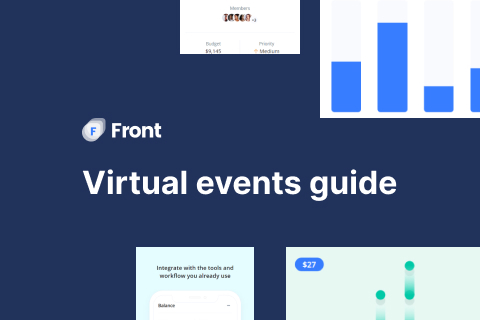
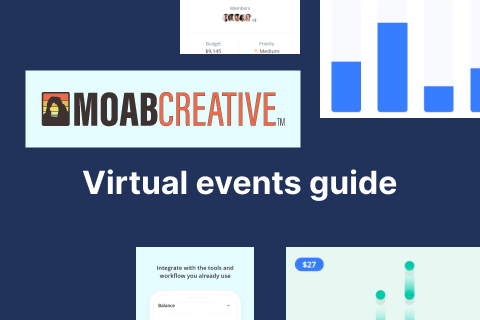
front page beta finished

Changed region(s): [[0.0312, 0.2188, 0.625, 0.4688]]

diff --git a/index.html b/index.html
@@ -63,7 +63,7 @@
                     <a href="#" class="nav-link" role="button" >Services</a>
                 </li>
                 <li class="nav-item">
-                    <a href="advertising.html" class="nav-link" role="button" >Advertising</a>
+                    <a href="#" class="nav-link" role="button" >Advertising</a>
                 </li>
                 <li class="nav-item">
                     <a href="#" class="nav-link" role="button" >FAQ</a>
@@ -570,7 +570,7 @@
               <div class="card-body">
                 <span class="card-subtitle text-body">Read the blog</span>
                 <h4 class="card-title text-inherit">Have a meaningful impact</h4>
-                <p class="card-text text-body">Opportunities to Front who have proven to be good at executing on them.</p>
+                <p class="card-text text-body">Opportunities for Moab Creative have proven we are good at executing on them.</p>
               </div>
             </a>
             <!-- End Card -->
@@ -584,7 +584,7 @@
               <div class="card-body">
                 <span class="card-subtitle text-body">Read the blog</span>
                 <h4 class="card-title text-inherit">Documentation</h4>
-                <p class="card-text text-body">Whether you're a startup or a global enterprise, learn how to integrate with Front.</p>
+                <p class="card-text text-body">Whether you're a startup or a global enterprise, learn how to integrate with Moab Creative.</p>
               </div>
             </a>
             <!-- End Card -->
@@ -597,8 +597,8 @@
               <img class="card-img" src="./assets/img/480x320/img35.jpg" alt="Image Description">
               <div class="card-body">
                 <span class="card-subtitle text-body">Learn about other solutions</span>
-                <h4 class="card-title text-inherit">Explore the Snippets tool</h4>
-                <p class="card-text text-body">Quickly Front sample components, copy-paste codes.</p>
+                <h4 class="card-title text-inherit">Explore our Services</h4>
+                <p class="card-text text-body">Quickly look over what we have to offer, and what we can do for you.</p>
               </div>
             </a>
             <!-- End Card -->
@@ -637,8 +637,8 @@
 
           <!-- List -->
           <ul class="list-unstyled list-py-1">
-            <li><a class="link-sm link-secondary" href="#"><i class="bi-geo-alt-fill me-1"></i> 153 Williamson Plaza, Maggieberg</a></li>
-            <li><a class="link-sm link-secondary" href="tel:1-062-109-9222"><i class="bi-telephone-inbound-fill me-1"></i> +1 (062) 109-9222</a></li>
+            <li><a class="link-sm link-secondary" href="#"><i class="bi-geo-alt-fill me-1"></i> 123 Boise St, Boise ID 83784</a></li>
+            <li><a class="link-sm link-secondary" href="tel:1-208-809-4543"><i class="bi-telephone-inbound-fill me-1"></i> +1 (208) 809-4543</a></li>
           </ul>
           <!-- End List -->
         
@@ -749,37 +749,7 @@
               </a>
             </li>
           
-            <li class="list-inline-item">
-              <!-- Button Group -->
-              <div class="btn-group">
-                <button type="button" class="btn btn-soft-secondary btn-xs dropdown-toggle" id="footerSelectLanguage" data-bs-toggle="dropdown" aria-expanded="false" data-bs-dropdown-animation>
-                  <span class="d-flex align-items-center">
-                    <img class="avatar avatar-xss avatar-circle me-2" src="./assets/vendor/flag-icon-css/flags/1x1/us.svg" alt="Image description" width="16"/>
-                    <span>English (US)</span>
-                  </span>
-                </button>
-
-                <div class="dropdown-menu" aria-labelledby="footerSelectLanguage">
-                  <a class="dropdown-item d-flex align-items-center active" href="#">
-                    <img class="avatar avatar-xss avatar-circle me-2" src="./assets/vendor/flag-icon-css/flags/1x1/us.svg" alt="Image description" width="16"/>
-                    <span>English (US)</span>
-                  </a>
-                  <a class="dropdown-item d-flex align-items-center" href="#">
-                    <img class="avatar avatar-xss avatar-circle me-2" src="./assets/vendor/flag-icon-css/flags/1x1/de.svg" alt="Image description" width="16"/>
-                    <span>Deutsch</span>
-                  </a>
-                  <a class="dropdown-item d-flex align-items-center" href="#">
-                    <img class="avatar avatar-xss avatar-circle me-2" src="./assets/vendor/flag-icon-css/flags/1x1/es.svg" alt="Image description" width="16"/>
-                    <span>Español</span>
-                  </a>
-                  <a class="dropdown-item d-flex align-items-center" href="#">
-                    <img class="avatar avatar-xss avatar-circle me-2" src="./assets/vendor/flag-icon-css/flags/1x1/cn.svg" alt="Image description" width="16"/>
-                    <span>中文 (繁體)</span>
-                  </a>
-                </div>
-              </div>
-              <!-- End Button Group -->
-            </li>
+ 
           </ul>
           <!-- End Socials -->
         </div>
